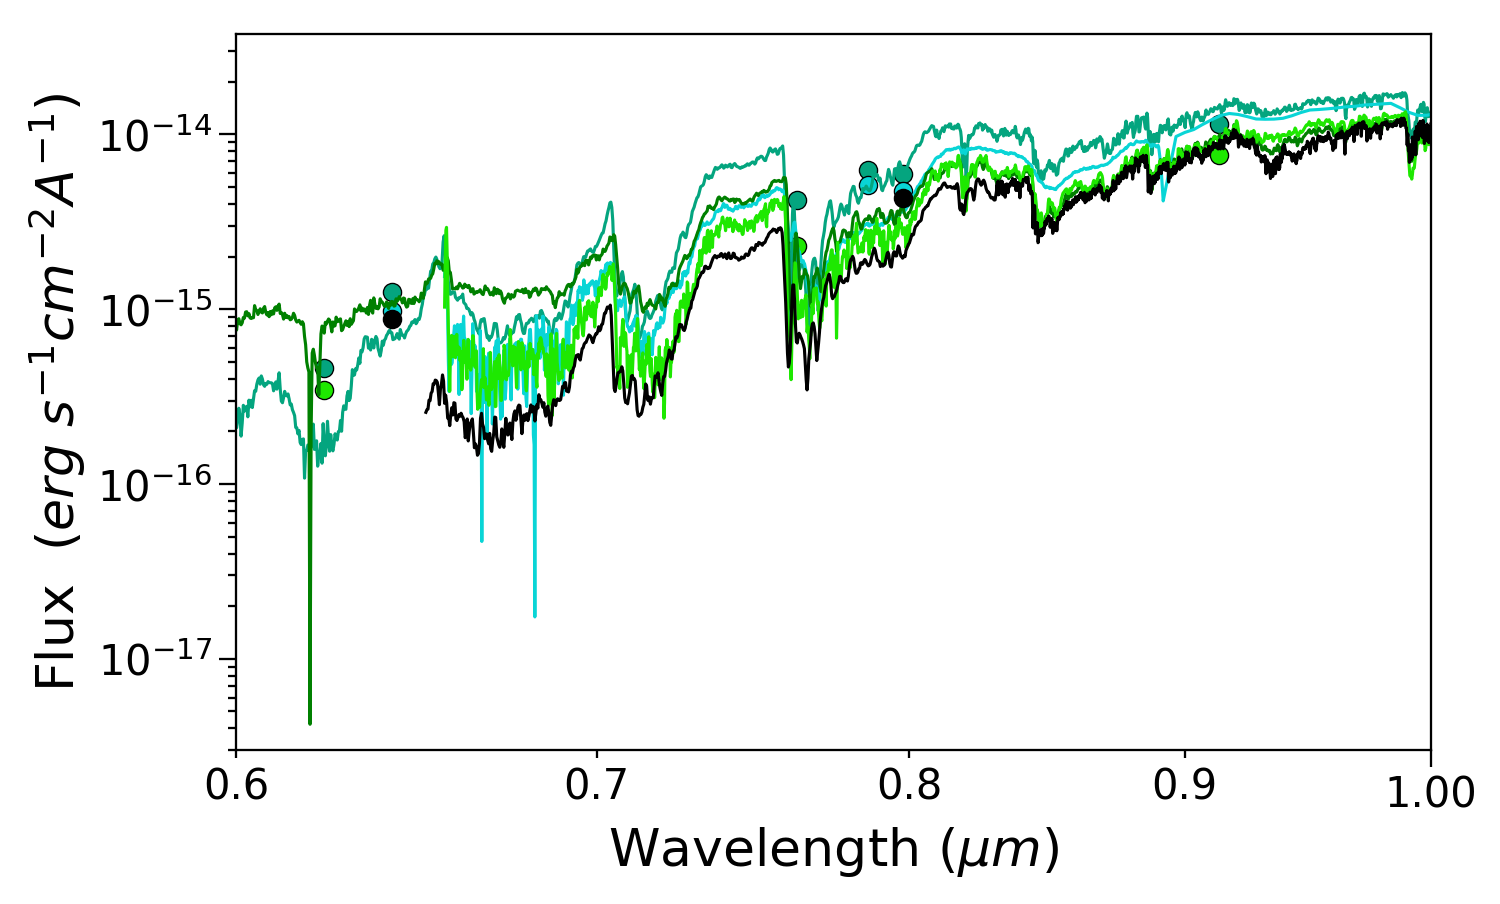
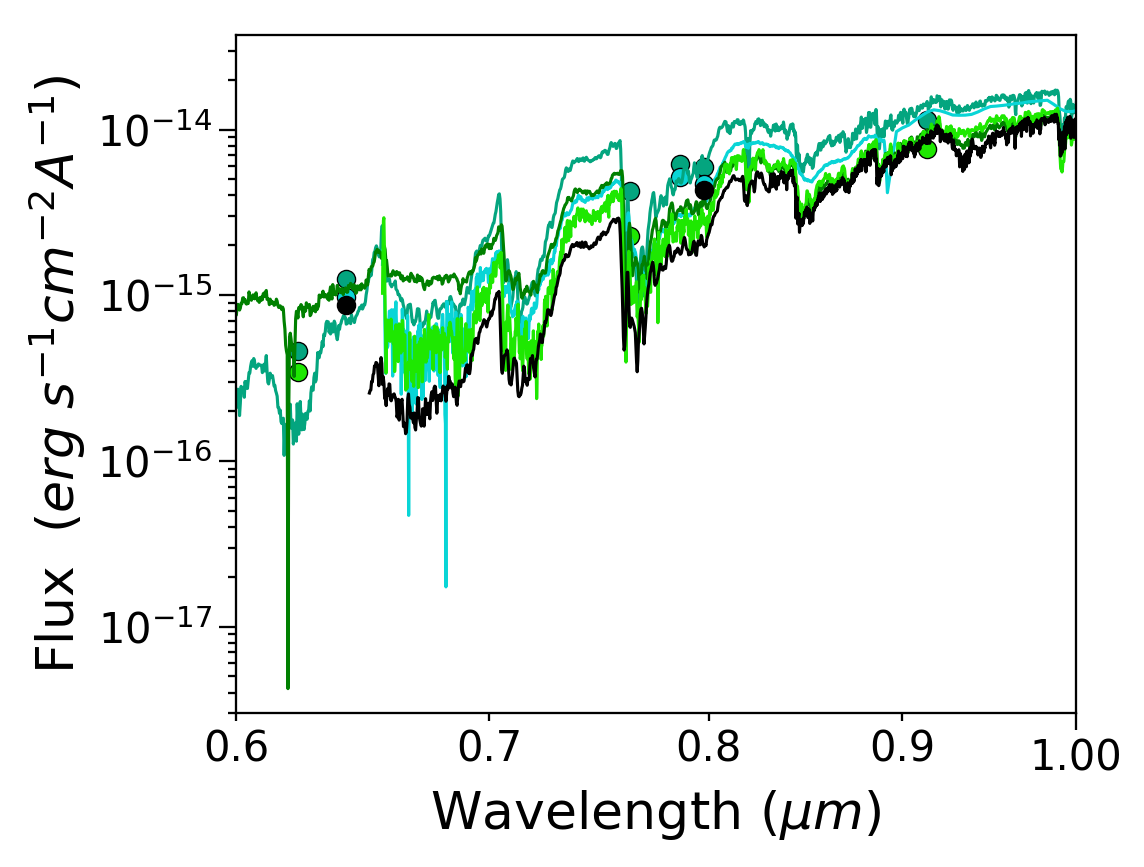
Added teff and spt to legend for now.

Changed region(s): [[0.0, 0.0311, 1.0, 0.9654]]

diff --git a/Trappist_youngcomparison.py b/Trappist_youngcomparison.py
@@ -23,18 +23,18 @@ df_1102_phot = pd.read_csv('Data/young_comp/1102-3430 (M8.5gamma) phot.txt', sep
                            names=["w", "f", "err"])
 
 # ---- Large Unc -----
-df_0436 = pd.read_csv('Data/young_comp/0436-4114 (M8betagamma) SED.txt', sep=" ", comment='#', header=None,
-                      names=["w", "f", "err"])
-df_0436_phot = pd.read_csv('Data/young_comp/0436-4114 (M8betagamma) phot.txt', sep=" ", comment='#', header=None,
-                           names=["w", "f", "err"])
-df_0032 = pd.read_csv('Data/young_comp/0032-4405 (L0gamma) SED.txt', sep=" ", comment='#', header=None,
-                      names=["w", "f", "err"])
-df_0032_phot = pd.read_csv('Data/young_comp/0032-4405 (L0gamma) phot.txt', sep=" ", comment='#', header=None,
-                           names=["w", "f", "err"])
-df_2154 = pd.read_csv('Data/young_comp/2154-7459 (M9.5beta) SED.txt', sep=" ", comment='#', header=None,
-                      names=["w", "f", "err"])
-df_2154_phot = pd.read_csv('Data/young_comp/2154-7459 (M9.5beta) phot.txt', sep=" ", comment='#', header=None,
-                           names=["w", "f", "err"])
+# df_0436 = pd.read_csv('Data/young_comp/0436-4114 (M8betagamma) SED.txt', sep=" ", comment='#', header=None,
+#                       names=["w", "f", "err"])
+# df_0436_phot = pd.read_csv('Data/young_comp/0436-4114 (M8betagamma) phot.txt', sep=" ", comment='#', header=None,
+#                            names=["w", "f", "err"])
+# df_0032 = pd.read_csv('Data/young_comp/0032-4405 (L0gamma) SED.txt', sep=" ", comment='#', header=None,
+#                       names=["w", "f", "err"])
+# df_0032_phot = pd.read_csv('Data/young_comp/0032-4405 (L0gamma) phot.txt', sep=" ", comment='#', header=None,
+#                            names=["w", "f", "err"])
+# df_2154 = pd.read_csv('Data/young_comp/2154-7459 (M9.5beta) SED.txt', sep=" ", comment='#', header=None,
+#                       names=["w", "f", "err"])
+# df_2154_phot = pd.read_csv('Data/young_comp/2154-7459 (M9.5beta) phot.txt', sep=" ", comment='#', header=None,
+#                            names=["w", "f", "err"])
 
 # ----- Fire data -----
 df_1139 = pd.read_csv('Data/young_comp/FIRE1139-3159 (M9gamma) SED.txt', sep=" ", comment='#', header=None,
@@ -92,7 +92,9 @@ plt.yticks(fontsize=20)
 plt.xlabel('Wavelength ($\mu m$)', fontsize=25)
 plt.ylabel('Flux  ($erg\ s^{-1} cm^{-2} A^{-1}$)', fontsize=25)
 
-plt.legend([trap, TWA27, TWA28, TWA26, TWA29], ['Trappist-1', "TWA27A", 'TWA28', 'TWA26', 'TWA29'])
+plt.legend([trap, TWA27, TWA28, TWA26, TWA29], ['Trappist-1, $2563\pm47$, M7.5', "TWA27A, $2589\pm38$, M8",
+                                                'TWA28, $2634\pm49$, M8.5 $\gamma$', 'TWA26, $2537\pm161$, M9 $\gamma$',
+                                                'TWA29, $2351\pm 216$, M9.5'])
 plt.tight_layout()
 plt.savefig('Figures/young_comp_small_unc.png', dpi=150)
 
